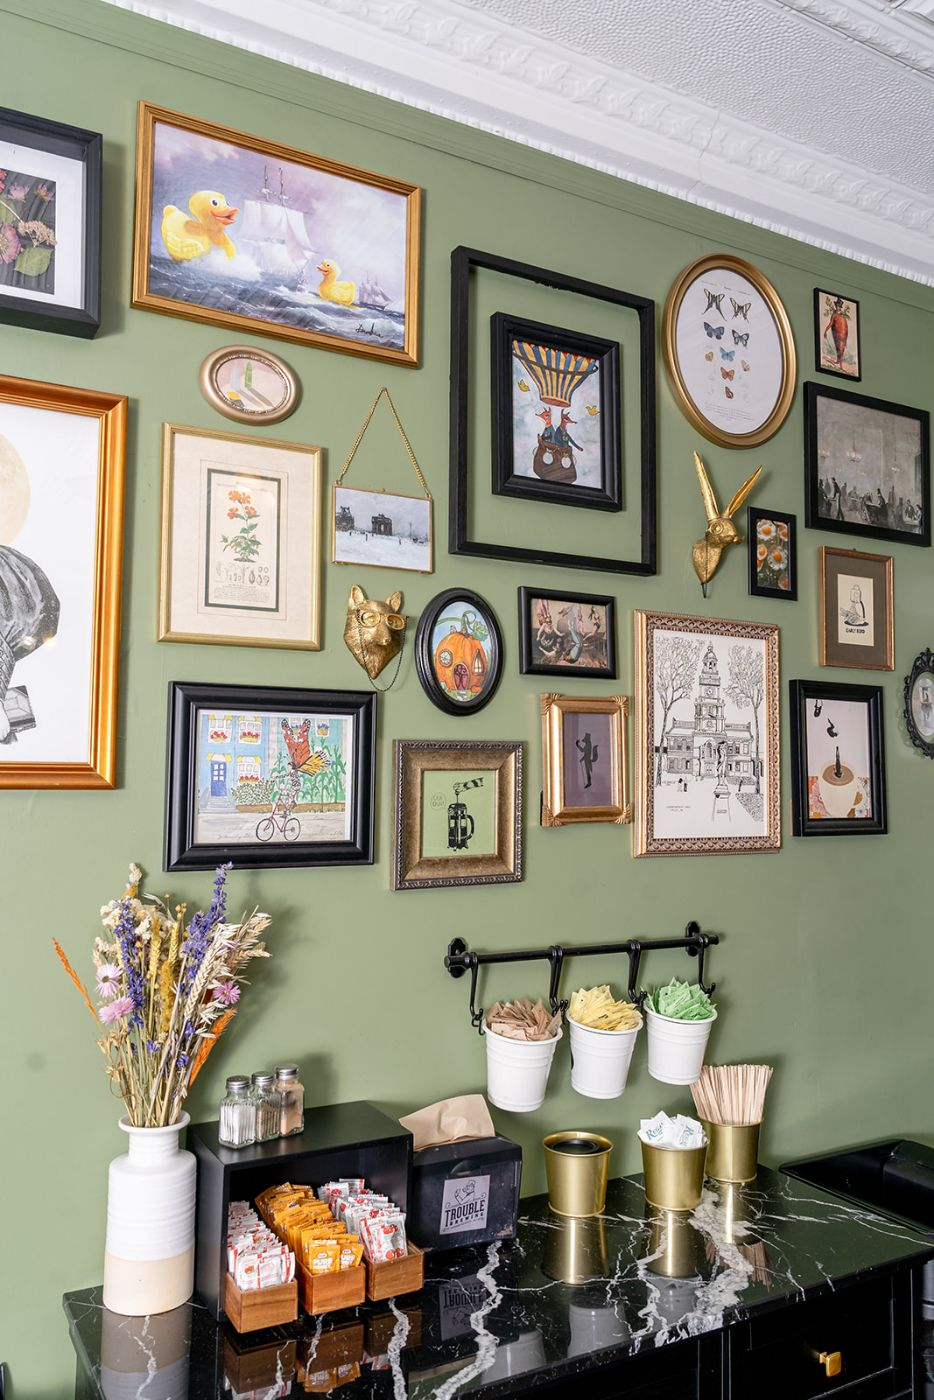
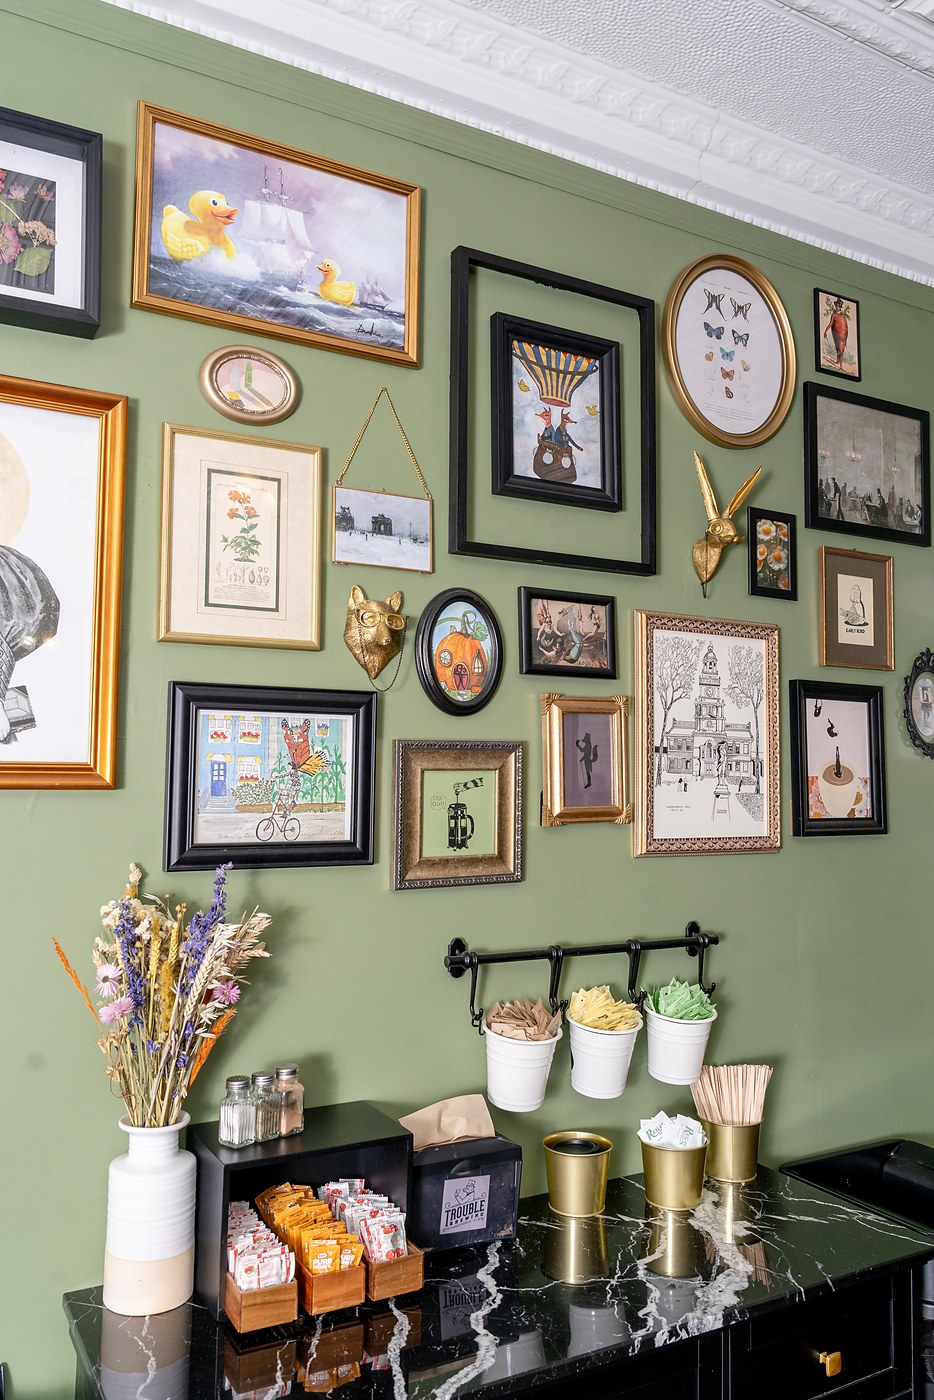
Gallery wall: full-resolution photo everywhere, full-width room
The wall photo was a 934px copy of the photographer's 4000x6000 frame, so
any zoom went soft. The same frame (identical crop — every hotspot still
lands) now ships at 934/1400/2000/3000px WebP and the browser picks the
size the screen needs (src/lib/wallPhoto.js). The Gallery Wall room grows
its `sizes` hint with the magnification, so zooming swaps in the 3000px
copy and a close-up stays crisp; the zoom cap goes from 3.4x to 5x. The
card's close-up crop and the Closer Look lens read from the 3000px copy;
Step Inside, Wall Tour and RealWallPhoto (Tagged Wall, Scrapbook) get the
srcset too.

The room now spans the full width of the page: the wall centred as large
as the window allows, a blurred, dimmed extension of the same wall out to
the edges; on wide windows the card hangs beside the wall instead of over
the art; on phones the wall runs edge to edge.

Claude-Session: https://claude.ai/code/session_01W1AfLL5NzApMkBf3Rb6Nio

diff --git a/src/components/sections/GalleryWallRoom.jsx b/src/components/sections/GalleryWallRoom.jsx
@@ -1,6 +1,6 @@
 import { useCallback, useEffect, useMemo, useRef, useState } from 'react';
 import Reveal from '../Reveal.jsx';
-import { asset } from '../../lib/config.js';
+import { WALL_PHOTO, WALL_PHOTO_LARGE, wallPhotoProps } from '../../lib/wallPhoto.js';
 import { track } from '../../lib/analytics.js';
 import { getGalleryPieces } from '../../lib/dataService.js';
 import { useDataVersion } from '../../lib/dataVersion.js';
@@ -24,13 +24,22 @@ import {
    the layer's own box, the math is pure percentages of the photograph and
    never needs a measured pixel (see viewFor()).
 
-   The photograph is 934px wide, so viewFor() caps the zoom where an
-   enlargement still looks like a photograph rather than porridge. The card
-   carries the real detail instead: the owner's own straight-on shot of the
-   piece when the collection has one, otherwise a native-resolution crop of the
-   wall itself. */
+   The photograph is the photographer's full-resolution frame, served at the
+   size the screen needs (src/lib/wallPhoto.js). Zooming asks for more: the
+   `sizes` hint grows with the magnification, so the browser swaps in a bigger
+   copy as the room walks up to a piece and a close-up stays crisp instead of
+   going soft. The card carries the detail too: the owner's own straight-on
+   shot of the piece when the collection has one, otherwise a crop of the wall
+   cut from the largest copy.
 
-const WALL_PHOTO = 'images/wall/gallery-wall.jpg';
+   The room spans the full width of the page: the wall itself is centred as
+   large as the screen allows, and a softly blurred extension of the same wall
+   fills out to the edges, so a wide monitor gets a room rather than a framed
+   print on a cream page. On a phone it runs edge to edge. */
+
+/* How wide the room's stage can get on a wide screen (px) — mirrors
+   `.gwr__body` in gallery-room.css, so the `sizes` hint matches the layout. */
+const STAGE_MAX = 1180;
 
 /* Where a chosen piece lands in the stage, as a share of it. Wide screens hold
    the card over the right of the room, so the art sits left of center and takes
@@ -40,6 +49,27 @@ const WALL_PHOTO = 'images/wall/gallery-wall.jpg';
    to. */
 const FIT_WIDE = { cx: 0.27, cy: 0.5, w: 0.46, h: 0.74 };
 const FIT_NARROW = { cx: 0.5, cy: 0.5, w: 0.86, h: 0.86 };
+/* A wide window has wall to spare either side of the room: the card hangs out
+   there, beside the photograph, and the piece gets the middle of the stage. */
+const FIT_SIDE = { cx: 0.5, cy: 0.5, w: 0.8, h: 0.8 };
+const SIDE_CARD_MIN = 300; // px of free band beside the room before the card moves out
+
+/* true when the band has room for the card beside the stage */
+function useSideRoom(bandRef, bodyRef) {
+  const [side, setSide] = useState(false);
+  useEffect(() => {
+    const band = bandRef.current;
+    const body = bodyRef.current;
+    if (!band || !body || typeof ResizeObserver === 'undefined') return undefined;
+    const check = () => setSide((band.clientWidth - body.clientWidth) / 2 >= SIDE_CARD_MIN + 32);
+    const ro = new ResizeObserver(check);
+    ro.observe(band);
+    ro.observe(body);
+    check();
+    return () => ro.disconnect();
+  }, [bandRef, bodyRef]);
+  return side;
+}
 
 function useMediaQuery(query) {
   const [matches, setMatches] = useState(() => {
@@ -84,7 +114,8 @@ export default function GalleryWallRoom({ data = {} }) {
     image_url: imageOverride,
   } = data;
 
-  const photo = imageOverride || asset(WALL_PHOTO);
+  const photo = imageOverride || WALL_PHOTO;
+  const cropPhoto = imageOverride || WALL_PHOTO_LARGE;
 
   const [pieces, setPieces] = useState(null);
   const version = useDataVersion('gallery_pieces');
@@ -104,7 +135,14 @@ export default function GalleryWallRoom({ data = {} }) {
   const open = openIndex >= 0 ? art[openIndex] : null;
 
   const wide = useMediaQuery('(min-width: 860px)');
-  const view = open ? viewFor(open, wide ? FIT_WIDE : FIT_NARROW) : REST_VIEW;
+  const bandRef = useRef(null);
+  const bodyRef = useRef(null);
+  const side = useSideRoom(bandRef, bodyRef) && wide;
+  const view = open ? viewFor(open, side ? FIT_SIDE : wide ? FIT_WIDE : FIT_NARROW) : REST_VIEW;
+  /* the rendered width of the photograph AFTER magnification — what decides
+     which copy is sharp enough */
+  const zoom = Math.max(1, view.scale);
+  const sizes = `(min-width: 860px) min(${Math.round(STAGE_MAX * zoom)}px, ${Math.round(86 * zoom)}vh), ${Math.round(100 * zoom)}vw`;
 
   const closeRef = useRef(null);
   const returnRef = useRef(null);
@@ -168,14 +206,16 @@ export default function GalleryWallRoom({ data = {} }) {
   );
 
   return (
-    <Reveal as="section" className={`section gwr${open ? ' gwr--open' : ''}`}>
+    <Reveal as="section" className={`section gwr${open ? ' gwr--open' : ''}${side ? ' gwr--side' : ''}`}>
       <div className="container">
         <header className="gwr__head">
           <h2 className="section-heading">{heading}</h2>
           {intro && <p className="section-sub">{intro}</p>}
         </header>
+      </div>
 
-        <div className="gwr__body" style={{ '--gwr-ratio': WALL_STAGE_RATIO }}>
+      <div className="gwr__band" ref={bandRef} style={{ '--gwr-ambient': `url("${photo}")` }}>
+        <div className="gwr__body" ref={bodyRef} style={{ '--gwr-ratio': WALL_STAGE_RATIO }}>
           <div className="gwr__room">
             <div className="gwr__stage">
               <div
@@ -187,7 +227,8 @@ export default function GalleryWallRoom({ data = {} }) {
               >
                 <img
                   className="gwr__photo"
-                  src={photo}
+                  {...wallPhotoProps(imageOverride, sizes)}
+                  fetchpriority="high"
                   alt="The gallery wall at Trouble Brewing — dozens of framed pictures hung together on a green wall"
                   width={WALL_IMAGE.w}
                   height={WALL_IMAGE.h}
@@ -257,7 +298,7 @@ export default function GalleryWallRoom({ data = {} }) {
                   {open.photo ? (
                     <img className="gwr-card__photo" src={open.photo} alt={open.title} decoding="async" />
                   ) : (
-                    <WallCrop art={open} photo={photo} />
+                    <WallCrop art={open} photo={cropPhoto} />
                   )}
                 </div>
 
@@ -318,7 +359,10 @@ export default function GalleryWallRoom({ data = {} }) {
               </aside>
             )}
           </div>
+        </div>
+      </div>
 
+      <div className="container">
           {/* The wall's contents as plain text, always in the document. A screen
               reader — or a crawler — gets the whole collection without operating
               a zooming photograph, and every hotspot above is a shortcut into
@@ -337,7 +381,6 @@ export default function GalleryWallRoom({ data = {} }) {
               </li>
             ))}
           </ul>
-        </div>
       </div>
     </Reveal>
   );

diff --git a/src/styles/gallery-room.css b/src/styles/gallery-room.css
@@ -27,8 +27,43 @@
    loose beneath it. The card is positioned against `.gwr__room`, so it can
    hang inside the room on a wide screen and drop below it on a phone without
    moving in the markup. */
+/* THE BAND: the room runs the full width of the page. The real wall sits in
+   the middle as large as the screen allows; beyond its edges, the same
+   photograph — enlarged, blurred and dimmed — carries the green wall out to
+   the sides of the window, so a wide monitor gets a room, not a print on a
+   cream page. (The blurred copy is the small 934px file: it's a backdrop.) */
+.gwr__band {
+  position: relative;
+  isolation: isolate;
+  overflow: hidden;
+  padding-block: var(--space-6);
+  background: #2c2d1c;
+}
+.gwr__band::before {
+  content: '';
+  position: absolute;
+  inset: -40px;
+  z-index: -1;
+  background-image: var(--gwr-ambient);
+  background-size: cover;
+  background-position: 50% 30%;
+  filter: blur(28px) saturate(1.05) brightness(0.62);
+  transform: scale(1.08);
+}
+.gwr__band::after { /* a soft vignette so the edges recede and the wall leads */
+  content: '';
+  position: absolute;
+  inset: 0;
+  z-index: -1;
+  background: radial-gradient(75% 90% at 50% 50%, transparent 40%, rgba(18, 16, 9, 0.55) 100%);
+}
+
+/* The wall stands as tall as the window allows (never taller than the
+   window, so the whole room is in view at once) and as wide as that height
+   implies. Width is derived from height via the ratio — never a set height,
+   which would break the ratio the pan math depends on. */
 .gwr__body {
-  width: min(100%, calc(var(--gwr-ratio, 1) * min(74vh, 780px)));
+  width: min(100% - 2 * var(--space-5), calc(var(--gwr-ratio, 1) * min(86vh, 1180px)), 1180px);
   margin-inline: auto;
 }
 
@@ -370,7 +405,7 @@
    apology for one. */
 .gwr__index {
   list-style: none;
-  margin: var(--space-5) 0 0;
+  margin: var(--space-6) 0 0;
   padding: 0;
   display: grid;
   gap: var(--space-1) var(--space-4);
@@ -400,6 +435,27 @@
 .gwr__index-link.is-open { border-bottom-color: var(--color-accent); }
 .gwr__index-artist { color: var(--color-text-soft); }
 .gwr__index-artist::before { content: '— '; }
+
+/* ---- the band, at its extremes (kept last so they win) ------------------- */
+
+/* A phone gets the wall edge to edge — every pixel goes to the art. */
+@media (max-width: 859px) {
+  .gwr__band { padding-block: 0 var(--space-4); }
+  .gwr__body { width: 100%; }
+  .gwr__stage { border-radius: 0; box-shadow: none; }
+  .gwr-card { margin-inline: var(--space-4); }
+}
+/* A wide window: the card hangs on the wall BESIDE the room, not over the
+   art (the component switches to this once there's room — see useSideRoom),
+   and the chosen piece takes the middle of the stage. */
+.gwr--side .gwr-card {
+  top: 0;
+  bottom: auto;
+  right: auto;
+  left: calc(100% + var(--space-5));
+  width: min(340px, calc((100vw - 100%) / 2 - var(--space-6)));
+  max-height: 100%;
+}
 
 /* ---- reduced motion ------------------------------------------------------ */
 

diff --git a/src/components/RealWallPhoto.jsx b/src/components/RealWallPhoto.jsx
@@ -1,7 +1,8 @@
-import { asset } from '../lib/config.js';
+import { wallPhotoProps } from '../lib/wallPhoto.js';
 import { WALL_FOCUS, WALL_STAGE_RATIO } from '../lib/galleryWall.js';
 
-/* The shop's own photograph of the gallery wall (gallery-wall.jpg, 934×1400),
+/* The shop's own photograph of the gallery wall (gallery-wall.jpg — served
+   at up to 3000px wide via src/lib/wallPhoto.js),
    cropped to the slice with the art in it (WALL_FOCUS — the counter below is
    cut off). Children are laid over it in % of that slice; the helpers in
    src/lib/realWall.js turn a WALL_ART box (measured over the WHOLE
@@ -11,11 +12,7 @@ import { WALL_FOCUS, WALL_STAGE_RATIO } from '../lib/galleryWall.js';
    Shared by the homepage concepts that hang the real wall rather than a
    painted one (Tagged Wall, Closer Look, Scrapbook). */
 
-const PHOTO = 'images/wall/gallery-wall.jpg';
-
-const REAL_WALL_SRC = asset(PHOTO);
-
-export default function RealWallPhoto({ src, className = '', alt, eager = true, children, ...rest }) {
+export default function RealWallPhoto({ src, className = '', alt, eager = true, sizes = '(min-width: 900px) 60vw, 100vw', children, ...rest }) {
   return (
     <div className={`rwp ${className}`} style={{ aspectRatio: WALL_STAGE_RATIO }} {...rest}>
       {/* the photo is taller than the slice, so it's clipped here — and only
@@ -23,7 +20,7 @@ export default function RealWallPhoto({ src, className = '', alt, eager = true, 
       <span className="rwp__clip">
       <img
         className="rwp__img"
-        src={src || REAL_WALL_SRC}
+        {...wallPhotoProps(src, sizes)}
         alt={alt ?? 'The gallery wall at Trouble Brewing: a sage-green wall hung with mismatched vintage frames, a gold fox head in spectacles and a brass hare.'}
         style={{ top: `${(-WALL_FOCUS.y / WALL_FOCUS.h) * 100}%`, height: `${(100 / WALL_FOCUS.h) * 100}%` }}
         loading={eager ? 'eager' : 'lazy'}

diff --git a/src/lib/galleryWall.js b/src/lib/galleryWall.js
@@ -1,7 +1,8 @@
 /* THE REAL WALL, AS DATA.
 
-   `public/images/wall/gallery-wall.jpg` (934×1400) is the shop's own
-   photograph of the green gallery wall over the condiment counter. The Gallery
+   `public/images/wall/gallery-wall.jpg` (934×1400 — and the same frame at up
+   to 3000px wide, see src/lib/wallPhoto.js) is the shop's own photograph of
+   the green gallery wall over the condiment counter. The Gallery
    Wall page hangs that photograph as its canvas and lays a hotspot over every
    piece in it, so a visitor explores the actual wall instead of scrolling a
    grid of thumbnails.
@@ -207,12 +208,14 @@ export function mergeWallArt(pieces) {
  * Everything is expressed in percentages OF THE PHOTOGRAPH, which is what CSS
  * `translate()` percentages mean on the photograph's own layer — so the room
  * pans and zooms correctly at every screen size without measuring a single
- * pixel. `scale` is clamped: the source is 934px wide, and blowing a
- * thumb-sized frame up past ~3× turns a photograph into porridge.
+ * pixel. `scale` is clamped at 5×: the room loads the photographer's
+ * full-resolution frame (up to 3000px wide, see src/lib/wallPhoto.js) as it
+ * zooms, so a small frame can come right up to the glass and stay sharp —
+ * past ~5× even that runs out of real detail.
  */
 export function viewFor(rect, fit) {
   const raw = Math.min((100 * fit.w) / rect.w, (WALL_FOCUS.h * fit.h) / rect.h);
-  const scale = Math.min(Math.max(raw, 1), 3.4);
+  const scale = Math.min(Math.max(raw, 1), 5);
   const cx = rect.x + rect.w / 2;
   const cy = rect.y + rect.h / 2;
   /* Vertically the pan is held inside the photograph: centering a piece hung

diff --git a/src/components/sections/StepInsideHero.jsx b/src/components/sections/StepInsideHero.jsx
@@ -4,6 +4,7 @@ import OrderButton from '../OrderButton.jsx';
 import BrandImg from '../BrandImg.jsx';
 import StarRating from '../StarRating.jsx';
 import { asset } from '../../lib/config.js';
+import { WALL_PHOTO, wallPhotoProps } from '../../lib/wallPhoto.js';
 import { WALL_ART, WALL_IMAGE, WALL_FOCUS } from '../../lib/galleryWall.js';
 import { getMenu, pickProducts } from '../../lib/menuService.js';
 import { loadReviews } from '../../lib/reviews.js';
@@ -170,7 +171,10 @@ export default function StepInsideHero({ data = {} }) {
   const imgStyle = pos
     ? { width: `${pos.coverW}px`, transform: `translate3d(${pos.x}px, ${pos.y}px, 0) scale(${pos.s})` }
     : undefined;
-  const src = photo || asset('images/wall/gallery-wall.jpg');
+  const src = photo || WALL_PHOTO;
+  /* rendered width of the photo after the close-up scale — picks a copy of
+     the wall sharp enough for the zoom (src/lib/wallPhoto.js) */
+  const photoSizes = pos ? `${Math.ceil(pos.coverW * pos.s)}px` : '100vw';
   const quote = reviews?.reviews?.[0];
   const backAt = status && !status.open
     ? (status.label.startsWith('Closed — opens') ? status.label.replace('Closed — opens', 'Back at') : 'Back tomorrow')
@@ -306,7 +310,7 @@ export default function StepInsideHero({ data = {} }) {
           <img
             ref={photoRef}
             className="sih__photo"
-            src={src}
+            {...wallPhotoProps(photo, photoSizes)}
             alt="The gallery wall at Trouble Brewing: a sage-green wall hung with mismatched vintage frames, a gold fox head in spectacles and a brass hare."
             style={imgStyle}
             fetchpriority="high"

diff --git a/src/lib/wallPhoto.js b/src/lib/wallPhoto.js
@@ -1,0 +1,29 @@
+import { asset } from './config.js';
+
+/* The shop's photograph of the gallery wall, at every size we ship.
+
+   The original is the photographer's 4000×6000 frame (Alex McDonnell, June
+   2024); the site used to carry only a 934px-wide copy of it, which went soft
+   the moment anything zoomed in. These are the same frame — identical crop,
+   so every hotspot measured in galleryWall.js still lands on its piece — at
+   four widths, and the browser picks the one the screen actually needs.
+
+   `gallery-wall.jpg` (934×1400) stays as the plain fallback and for the few
+   places that need a single URL (a CSS background, an og:image). */
+
+export const WALL_PHOTO = asset('images/wall/gallery-wall.jpg');
+
+export const WALL_PHOTO_WIDTHS = [934, 1400, 2000, 3000];
+
+export const WALL_PHOTO_SRCSET = WALL_PHOTO_WIDTHS
+  .map((w) => `${asset(`images/wall/gallery-wall-${w}.webp`)} ${w}w`)
+  .join(', ');
+
+/** The biggest copy — for close-up crops that must stay sharp. */
+export const WALL_PHOTO_LARGE = asset('images/wall/gallery-wall-3000.webp');
+
+/** img props for the default wall photo; an owner override is a single URL. */
+export function wallPhotoProps(override, sizes = '100vw') {
+  if (override) return { src: override };
+  return { src: WALL_PHOTO, srcSet: WALL_PHOTO_SRCSET, sizes };
+}

diff --git a/src/components/sections/WallTourHero.jsx b/src/components/sections/WallTourHero.jsx
@@ -2,7 +2,7 @@ import { useEffect, useState } from 'react';
 import { Link } from 'react-router-dom';
 import OrderButton from '../OrderButton.jsx';
 import HoursToday from '../HoursToday.jsx';
-import { asset } from '../../lib/config.js';
+import { wallPhotoProps } from '../../lib/wallPhoto.js';
 import { WALL_ART, WALL_IMAGE, WALL_STAGE_RATIO, REST_VIEW, viewFor } from '../../lib/galleryWall.js';
 
 /* "Wall Tour" landing concept — the gallery after hours. The shop's REAL
@@ -68,7 +68,7 @@ export default function WallTourHero({ data = {} }) {
             <div className="wth__stage" style={{ aspectRatio: WALL_STAGE_RATIO }}>
               <div className="wth__art" style={{ transform: `translate(${view.x}%, ${view.y}%) scale(${view.scale})` }}>
                 <img
-                  src={photo || asset('images/wall/gallery-wall.jpg')}
+                  {...wallPhotoProps(photo, `(min-width: 900px) ${Math.round(640 * Math.max(1, view.scale))}px, ${Math.round(100 * Math.max(1, view.scale))}vw`)}
                   alt="The gallery wall at Trouble Brewing: dozens of mismatched vintage frames on a sage-green wall"
                   width={WALL_IMAGE.w}
                   height={WALL_IMAGE.h}

diff --git a/src/components/sections/CloserLookHero.jsx b/src/components/sections/CloserLookHero.jsx
@@ -3,7 +3,7 @@ import { Link } from 'react-router-dom';
 import OrderButton from '../OrderButton.jsx';
 import HoursToday from '../HoursToday.jsx';
 import RealWallPhoto from '../RealWallPhoto.jsx';
-import { asset } from '../../lib/config.js';
+import { WALL_PHOTO_LARGE } from '../../lib/wallPhoto.js';
 import { getGalleryPieces } from '../../lib/dataService.js';
 import { WALL_ART, WALL_FOCUS, WALL_IMAGE, mergeWallArt } from '../../lib/galleryWall.js';
 import { stageBox, stageXY } from '../../lib/realWall.js';
@@ -79,7 +79,8 @@ export default function CloserLookHero({ data = {} }) {
   const art = useMemo(() => mergeWallArt(pieces), [pieces]);
   const active = art.find((a) => a.id === activeId) || art[0];
   const index = art.indexOf(active);
-  const src = photo || asset('images/wall/gallery-wall.jpg');
+  // the lens magnifies 2.2× — it reads from the full-resolution copy
+  const src = photo || WALL_PHOTO_LARGE;
 
   // Put the lens at a stage-% point and aim its magnified copy there.
   const placeLens = (xPct, yPct) => {
